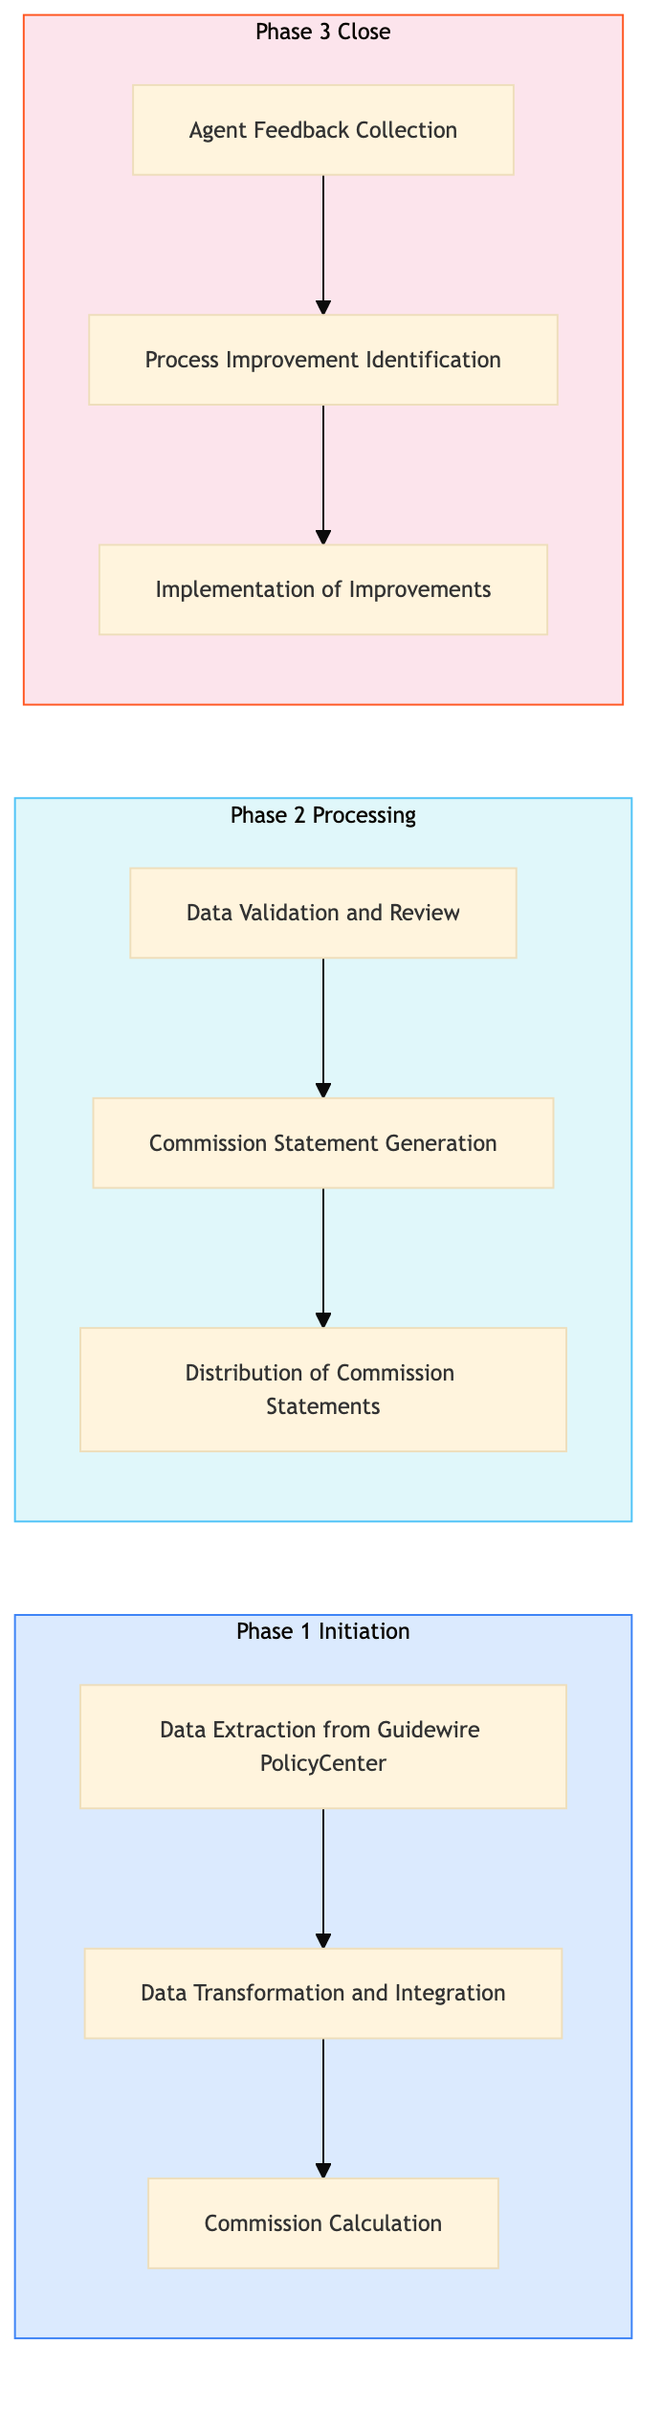
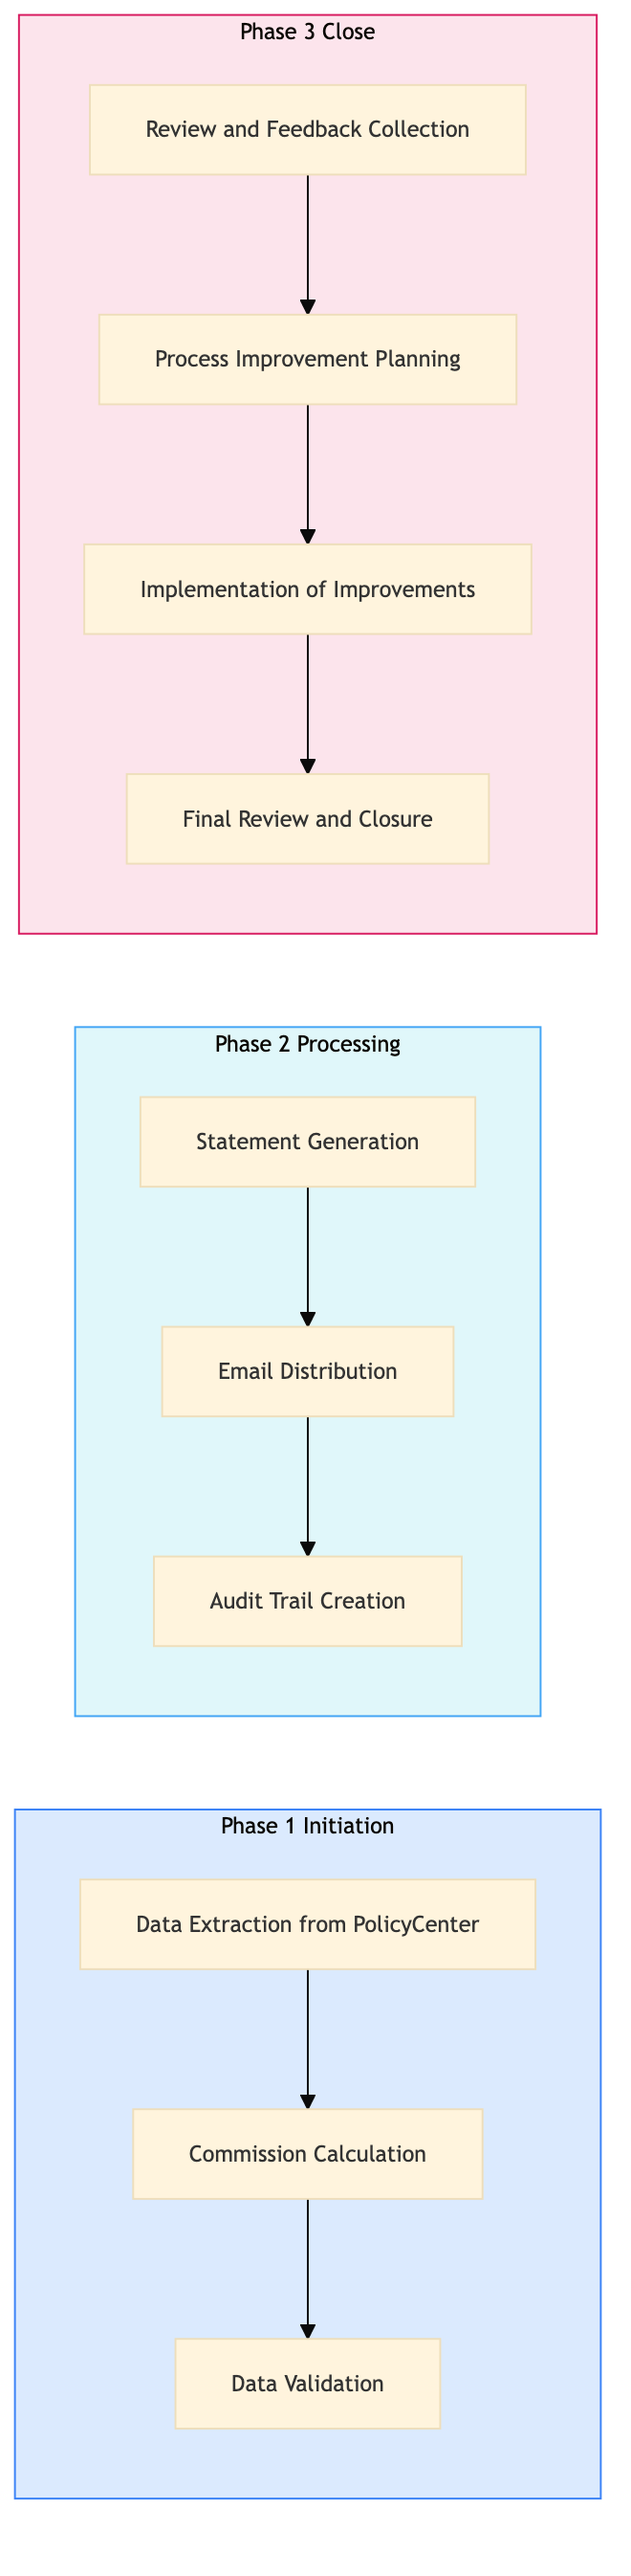
feat: add AAA-IN-BI-05 — Agent Commission Calculation and Statement

diff --git a/aaa-insurance/insurance-billing/aaa-in-bi-05.html b/aaa-insurance/insurance-billing/aaa-in-bi-05.html
@@ -23,40 +23,16 @@
     <div class="nav-l2-group">
       <a class="nav-l2-title" href="../../shared-membership/membership-enrolment/index.html">Membership Enrolment & Sales</a>
       <div class="nav-l3-list">
-        <a class="nav-l3" href="../../shared-membership/membership-enrolment/shared-mb-en-01.html">SHARED-MB-EN-01 &mdash; New Member Walk-In Enrolment (Branch)</a>
-        <a class="nav-l3" href="../../shared-membership/membership-enrolment/shared-mb-en-02.html">SHARED-MB-EN-02 &mdash; Online Membership Self-Enrolment (Web/Ap</a>
-        <a class="nav-l3" href="../../shared-membership/membership-enrolment/shared-mb-en-03.html">SHARED-MB-EN-03 &mdash; Phone Enrolment via Contact Centre</a>
-        <a class="nav-l3" href="../../shared-membership/membership-enrolment/shared-mb-en-04.html">SHARED-MB-EN-04 &mdash; Affiliate and Employer Group Enrolment</a>
-        <a class="nav-l3" href="../../shared-membership/membership-enrolment/shared-mb-en-05.html">SHARED-MB-EN-05 &mdash; Membership Tier Selection and Upsell</a>
-        <a class="nav-l3" href="../../shared-membership/membership-enrolment/shared-mb-en-06.html">SHARED-MB-EN-06 &mdash; Payment Processing and First-Year Billin</a>
-        <a class="nav-l3" href="../../shared-membership/membership-enrolment/shared-mb-en-07.html">SHARED-MB-EN-07 &mdash; Welcome Kit and Digital Card Issuance</a>
-        <a class="nav-l3" href="../../shared-membership/membership-enrolment/shared-mb-en-08.html">SHARED-MB-EN-08 &mdash; Duplicate Member Detection and Merge</a>
       </div>
     </div>
     <div class="nav-l2-group">
       <a class="nav-l2-title" href="../../shared-membership/membership-renewal/index.html">Membership Renewal & Retention</a>
       <div class="nav-l3-list">
-        <a class="nav-l3" href="../../shared-membership/membership-renewal/shared-mb-rn-01.html">SHARED-MB-RN-01 &mdash; Annual Renewal Notice Generation and Dis</a>
-        <a class="nav-l3" href="../../shared-membership/membership-renewal/shared-mb-rn-02.html">SHARED-MB-RN-02 &mdash; Auto-Renewal Processing (Credit Card on </a>
-        <a class="nav-l3" href="../../shared-membership/membership-renewal/shared-mb-rn-03.html">SHARED-MB-RN-03 &mdash; Lapsed Member Reinstatement Campaign</a>
-        <a class="nav-l3" href="../../shared-membership/membership-renewal/shared-mb-rn-04.html">SHARED-MB-RN-04 &mdash; Membership Upgrade and Tier Change Proce</a>
-        <a class="nav-l3" href="../../shared-membership/membership-renewal/shared-mb-rn-05.html">SHARED-MB-RN-05 &mdash; Associate and Household Member Add-On Pr</a>
-        <a class="nav-l3" href="../../shared-membership/membership-renewal/shared-mb-rn-06.html">SHARED-MB-RN-06 &mdash; Cancellation Request Handling and Save O</a>
-        <a class="nav-l3" href="../../shared-membership/membership-renewal/shared-mb-rn-07.html">SHARED-MB-RN-07 &mdash; Renewal Rate Review and Pricing Update</a>
-        <a class="nav-l3" href="../../shared-membership/membership-renewal/shared-mb-rn-08.html">SHARED-MB-RN-08 &mdash; Membership Winback Campaign (12-36 Month</a>
       </div>
     </div>
     <div class="nav-l2-group">
       <a class="nav-l2-title" href="../../shared-membership/member-services/index.html">Member Services & Benefits</a>
       <div class="nav-l3-list">
-        <a class="nav-l3" href="../../shared-membership/member-services/shared-mb-sv-01.html">SHARED-MB-SV-01 &mdash; Member Discount Partner Redemption</a>
-        <a class="nav-l3" href="../../shared-membership/member-services/shared-mb-sv-02.html">SHARED-MB-SV-02 &mdash; Passport Photo Service Delivery (Branch)</a>
-        <a class="nav-l3" href="../../shared-membership/member-services/shared-mb-sv-03.html">SHARED-MB-SV-03 &mdash; International Driving Permit (IDP) Proce</a>
-        <a class="nav-l3" href="../../shared-membership/member-services/shared-mb-sv-04.html">SHARED-MB-SV-04 &mdash; Notary and Document Authentication Servi</a>
-        <a class="nav-l3" href="../../shared-membership/member-services/shared-mb-sv-05.html">SHARED-MB-SV-05 &mdash; Member Portal Profile and Preferences Ma</a>
-        <a class="nav-l3" href="../../shared-membership/member-services/shared-mb-sv-06.html">SHARED-MB-SV-06 &mdash; Lost and Stolen Membership Card Replacem</a>
-        <a class="nav-l3" href="../../shared-membership/member-services/shared-mb-sv-07.html">SHARED-MB-SV-07 &mdash; Member Data Privacy Request (CCPA and PI</a>
-        <a class="nav-l3" href="../../shared-membership/member-services/shared-mb-sv-08.html">SHARED-MB-SV-08 &mdash; Member Satisfaction Survey and NPS Track</a>
       </div>
     </div>
   </div>
@@ -300,7 +276,7 @@
           <span class="pid-badge org-badge-aaa">AAA</span>
           AAA-IN-BI-05 &mdash; Agent Commission Calculation and Statement
         </h1>
-        <p>This process calculates and generates commission statements for licensed insurance agents based on their sales performance. It integrates data from various systems to ensure accurate and timely payments.</p>
+        <p>This process calculates and generates commission statements for licensed insurance agents based on their sales performance. It ensures accurate financial reporting and compliance with state DOI regulations.</p>
       </div>
 
       <!-- BPMN Diagram -->
@@ -327,9 +303,9 @@
             <tr><th>L2 Process</th><td>Billing & Premium Management</td></tr>
             <tr><th>L3 Name</th><td>Agent Commission Calculation and Statement</td></tr>
             <tr><th>Trigger</th><td>Monthly end of the billing cycle</td></tr>
-            <tr><th>Outcome</th><td>Successful completion produces accurate agent commission statements, which are distributed via email or direct mail.</td></tr>
-            <tr><th>Org Notes</th><td>AAA Northeast uses Guidewire Cloud for policy management and Salesforce for customer interactions. The process is more integrated with these systems compared to CAA, leveraging cloud-based solutions for real-time data processing.</td></tr>
-            <tr><th>Systems</th><td><span class="sys-tag guidewire">Guidewire PolicyCenter</span> <span class="sys-tag sap">SAP S/4HANA</span> <span class="sys-tag salesforce">Salesforce</span> <span class="sys-tag sabre">Sabre GDS</span> <span class="sys-tag verisk">Verisk ISO rating</span></td></tr>
+            <tr><th>Outcome</th><td>Successful completion produces accurate agent commission statements, which are distributed to all licensed agents via email.</td></tr>
+            <tr><th>Org Notes</th><td>The process for AAA Northeast is tailored to meet specific state DOI requirements and uses the Guidewire Cloud platform for policy management. Unlike CAA, AAA does not have a telematics component in this process.</td></tr>
+            <tr><th>Systems</th><td><span class="sys-tag guidewire">Guidewire PolicyCenter</span> <span class="sys-tag sap">SAP S/4HANA</span> <span class="sys-tag salesforce">Salesforce</span></td></tr>
           </table>
         </div>
       </div>
@@ -350,109 +326,121 @@
               <tbody>
         <tr>
           <td class="step-num">1.1</td>
-          <td>Data Extraction from Guidewire PolicyCenter</td>
+          <td>Data Extraction from PolicyCenter</td>
           <td>SAP Data Analyst</td>
           <td><span class="sys-tag guidewire">Guidewire PolicyCenter</span></td>
-          <td>Policy data, premium amounts</td>
+          <td>Policy data for the month</td>
           <td>Extracted policy data file</td>
-          <td>Data extraction time < 1 hour</td>
-          <td>Inconsistent data formats from PolicyCenter</td>
+          <td>Data extraction time < 2 hours</td>
+          <td>Inaccurate data extraction can lead to incorrect commission calculations.</td>
           <td>N</td>
           <td><span class="exception-y">Y</span></td>
         </tr>
         <tr>
           <td class="step-num">1.2</td>
-          <td>Data Transformation and Integration</td>
-          <td>ETL Developer</td>
+          <td>Commission Calculation</td>
+          <td>Agent Commission Specialist</td>
           <td><span class="sys-tag sap">SAP S/4HANA</span></td>
           <td>Extracted policy data file</td>
-          <td>Transformed and integrated data in SAP S/4HANA</td>
-          <td>Data integration time < 2 hours</td>
-          <td>ETL process failures due to system downtime</td>
+          <td>Commission calculation report</td>
+          <td>Commission calculations completed within 1 business day</td>
+          <td>Errors in commission formulas can result in financial discrepancies.</td>
           <td>N</td>
           <td><span class="exception-y">Y</span></td>
         </tr>
         <tr>
           <td class="step-num">1.3</td>
-          <td>Commission Calculation</td>
-          <td>Commissions Specialist</td>
-          <td><span class="sys-tag sap">SAP S/4HANA</span></td>
-          <td>Transformed and integrated data in SAP S/4HANA</td>
-          <td>Commission calculation report</td>
-          <td>Commission calculations completed within 1 business day</td>
-          <td>Errors in commission rate application</td>
-          <td>N</td>
-          <td><span class="exception-y">Y</span></td>
-        </tr>
-        <tr>
-          <td class="step-num">2.1</td>
-          <td>Data Validation and Review</td>
-          <td>Commissions Manager</td>
+          <td>Data Validation</td>
+          <td>Agent Commission Specialist</td>
           <td><span class="sys-tag sap">SAP S/4HANA</span></td>
           <td>Commission calculation report</td>
           <td>Validated commission data</td>
-          <td>Validation time < 2 business days</td>
-          <td>Manual review errors</td>
+          <td>Validation completed within 1 business day</td>
+          <td>Manual validation is time-consuming and prone to errors.</td>
           <td><span class="decision-y">Y</span></td>
           <td>N</td>
         </tr>
         <tr>
-          <td class="step-num">2.2</td>
-          <td>Commission Statement Generation</td>
-          <td>Commissions Specialist</td>
-          <td><span class="sys-tag salesforce">Salesforce</span></td>
+          <td class="step-num">2.1</td>
+          <td>Statement Generation</td>
+          <td>Agent Commission Specialist</td>
+          <td><span class="sys-tag sap">SAP S/4HANA</span></td>
           <td>Validated commission data</td>
-          <td>Agent commission statements</td>
-          <td>Statement generation time < 1 business day</td>
-          <td>Delays in statement distribution</td>
+          <td>Commission statement PDFs</td>
+          <td>Statements generated within 1 business day</td>
+          <td>Formatting issues can cause confusion for agents.</td>
+          <td>N</td>
+          <td><span class="exception-y">Y</span></td>
+        </tr>
+        <tr>
+          <td class="step-num">2.2</td>
+          <td>Email Distribution</td>
+          <td>Agent Communication Specialist</td>
+          <td><span class="sys-tag salesforce">Salesforce</span></td>
+          <td>Commission statement PDFs</td>
+          <td>Sent emails to licensed agents</td>
+          <td>95% of statements distributed within 1 business day</td>
+          <td>Email delivery failures can result in missed communications.</td>
           <td>N</td>
           <td><span class="exception-y">Y</span></td>
         </tr>
         <tr>
           <td class="step-num">2.3</td>
-          <td>Distribution of Commission Statements</td>
-          <td>Commissions Coordinator</td>
-          <td><span class="sys-tag salesforce">Salesforce</span></td>
-          <td>Agent commission statements</td>
-          <td>Emails sent to agents, physical copies distributed if required</td>
-          <td>Statements distributed within 1 business day after generation</td>
-          <td>Non-delivery of emails</td>
+          <td>Audit Trail Creation</td>
+          <td>Internal Auditor</td>
+          <td><span class="sys-tag sap">SAP S/4HANA</span></td>
+          <td>Commission statement PDFs and distribution logs</td>
+          <td>Audit trail report</td>
+          <td>Audit trails completed within 1 business day</td>
+          <td>Incomplete audit trails can lead to compliance issues.</td>
           <td>N</td>
           <td><span class="exception-y">Y</span></td>
         </tr>
         <tr>
           <td class="step-num">3.1</td>
-          <td>Agent Feedback Collection</td>
-          <td>Commissions Coordinator</td>
+          <td>Review and Feedback Collection</td>
+          <td>Agent Commission Specialist</td>
           <td><span class="sys-tag salesforce">Salesforce</span></td>
-          <td>Emails sent to agents, physical copies distributed if required</td>
-          <td>Feedback from agents</td>
-          <td>Response rate > 80%</td>
-          <td>Low response rates</td>
-          <td><span class="decision-y">Y</span></td>
+          <td>Agent feedback via email</td>
+          <td>Feedback summary report</td>
+          <td>80% response rate from agents within 2 weeks</td>
+          <td>Low agent participation can hinder process improvements.</td>
           <td>N</td>
+          <td><span class="exception-y">Y</span></td>
         </tr>
         <tr>
           <td class="step-num">3.2</td>
-          <td>Process Improvement Identification</td>
-          <td>Commissions Manager</td>
-          <td><span class="sys-tag salesforce">Salesforce</span></td>
-          <td>Feedback from agents</td>
-          <td>Improvement recommendations</td>
-          <td>Number of identified improvements > 5 per quarter</td>
-          <td>Lack of actionable feedback</td>
+          <td>Process Improvement Planning</td>
+          <td>Agent Commission Specialist</td>
+          <td><span class="sys-tag sap">SAP S/4HANA</span></td>
+          <td>Feedback summary report</td>
+          <td>Improvement plan document</td>
+          <td>Improvement plan completed within 1 week</td>
+          <td>Inadequate planning can delay process enhancements.</td>
           <td>N</td>
           <td><span class="exception-y">Y</span></td>
         </tr>
         <tr>
           <td class="step-num">3.3</td>
           <td>Implementation of Improvements</td>
-          <td>IT Specialist</td>
-          <td><span class="sys-tag salesforce">SAP S/4HANA, Salesforce</span></td>
-          <td>Improvement recommendations</td>
-          <td>Updated processes and systems</td>
-          <td>Time to implement improvements < 2 weeks</td>
-          <td>Resistance to change</td>
+          <td>SAP Data Analyst</td>
+          <td><span class="sys-tag sap">SAP S/4HANA</span></td>
+          <td>Improvement plan document</td>
+          <td>Updated commission calculation process</td>
+          <td>Implementations completed within 1 month</td>
+          <td>Resistance to change can slow down improvements.</td>
+          <td>N</td>
+          <td><span class="exception-y">Y</span></td>
+        </tr>
+        <tr>
+          <td class="step-num">3.4</td>
+          <td>Final Review and Closure</td>
+          <td>Agent Commission Specialist</td>
+          <td><span class="sys-tag sap">SAP S/4HANA</span></td>
+          <td>Updated commission calculation process</td>
+          <td>Process closure document</td>
+          <td>Closure completed within 1 business day</td>
+          <td>Ongoing issues can prolong the closure process.</td>
           <td>N</td>
           <td><span class="exception-y">Y</span></td>
         </tr>
@@ -467,9 +455,9 @@
         <div class="card-header">&#x1F4CA; KPIs &amp; Risk Register</div>
         <div class="card-body">
           <p class="mb-8"><strong>KPIs</strong></p>
-          <div class="kpi-list mb-8"><span class="kpi-pill">Data extraction time < 1 hour</span> <span class="kpi-pill">Data integration time < 2 hours</span> <span class="kpi-pill">Commission calculations completed within 1 business day</span> <span class="kpi-pill">Validation time < 2 business days</span> <span class="kpi-pill">Statement generation time < 1 business day</span> <span class="kpi-pill">Statements distributed within 1 business day after generation</span> <span class="kpi-pill">Response rate > 80%</span> <span class="kpi-pill">Number of identified improvements > 5 per quarter</span> <span class="kpi-pill">Time to implement improvements < 2 weeks</span></div>
+          <div class="kpi-list mb-8"><span class="kpi-pill">Data extraction time < 2 hours</span> <span class="kpi-pill">Commission calculations completed within 1 business day</span> <span class="kpi-pill">Validation completed within 1 business day</span> <span class="kpi-pill">Statements generated within 1 business day</span> <span class="kpi-pill">95% of statements distributed within 1 business day</span></div>
           <p class="mb-8" style="margin-top:16px"><strong>Key Risks</strong></p>
-          <div class="kpi-list"><span class="risk-pill">Inconsistent data formats from PolicyCenter</span> <span class="risk-pill">ETL process failures due to system downtime</span> <span class="risk-pill">Errors in commission rate application</span> <span class="risk-pill">Manual review errors</span> <span class="risk-pill">Delays in statement distribution</span> <span class="risk-pill">Non-delivery of emails</span> <span class="risk-pill">Low response rates</span> <span class="risk-pill">Lack of actionable feedback</span> <span class="risk-pill">Resistance to change</span></div>
+          <div class="kpi-list"><span class="risk-pill">Inaccurate data extraction leading to incorrect commission calculations</span> <span class="risk-pill">Errors in commission formulas resulting in financial discrepancies</span> <span class="risk-pill">Manual validation being time-consuming and prone to errors</span> <span class="risk-pill">Formatting issues causing confusion for agents</span> <span class="risk-pill">Email delivery failures resulting in missed communications</span></div>
         </div>
       </div>
 

diff --git a/aaa-insurance/insurance-billing/index.html b/aaa-insurance/insurance-billing/index.html
@@ -72,6 +72,7 @@
         <a class="nav-l3" href="../../aaa-insurance/insurance-billing/aaa-in-bi-01.html">AAA-IN-BI-01 &mdash; Premium Invoice Generation and Distribut</a>
         <a class="nav-l3" href="../../aaa-insurance/insurance-billing/aaa-in-bi-02.html">AAA-IN-BI-02 &mdash; Installment Plan Setup and Management</a>
         <a class="nav-l3" href="../../aaa-insurance/insurance-billing/aaa-in-bi-03.html">AAA-IN-BI-03 &mdash; Payment Receipt and EFT and Credit Card </a>
+        <a class="nav-l3" href="../../aaa-insurance/insurance-billing/aaa-in-bi-04.html">AAA-IN-BI-04 &mdash; NSF and Failed Payment Handling and Noti</a>
       </div>
     </div>
     <div class="nav-l2-group">
@@ -268,7 +269,7 @@
           <a href="../index.html">AAA Insurance</a>
         </div>
         <h1>🛡 Billing & Premium Management</h1>
-        <p>3 of 8 processes complete</p>
+        <p>4 of 8 processes complete</p>
       </div>
       <div class="card">
         <div class="card-header">Process List</div>
@@ -278,7 +279,7 @@
             <tbody><tr><td><a href="aaa-in-bi-01.html">AAA-IN-BI-01</a></td><td>Premium Invoice Generation and Distribution</td><td><span style="color:#16a34a;font-weight:700">&#x2705; Complete</span></td></tr>
 <tr><td><a href="aaa-in-bi-02.html">AAA-IN-BI-02</a></td><td>Installment Plan Setup and Management</td><td><span style="color:#16a34a;font-weight:700">&#x2705; Complete</span></td></tr>
 <tr><td><a href="aaa-in-bi-03.html">AAA-IN-BI-03</a></td><td>Payment Receipt and EFT and Credit Card Processing</td><td><span style="color:#16a34a;font-weight:700">&#x2705; Complete</span></td></tr>
-<tr><td>AAA-IN-BI-04</td><td>NSF and Failed Payment Handling and Notice</td><td><span style="color:#94a3b8">&#x23F3; Queued</span></td></tr>
+<tr><td><a href="aaa-in-bi-04.html">AAA-IN-BI-04</a></td><td>NSF and Failed Payment Handling and Notice</td><td><span style="color:#16a34a;font-weight:700">&#x2705; Complete</span></td></tr>
 <tr><td>AAA-IN-BI-05</td><td>Agent Commission Calculation and Statement</td><td><span style="color:#94a3b8">&#x23F3; Queued</span></td></tr>
 <tr><td>AAA-IN-BI-06</td><td>Refund Processing (Cancellation and Overpayment)</td><td><span style="color:#94a3b8">&#x23F3; Queued</span></td></tr>
 <tr><td>AAA-IN-BI-07</td><td>Premium Audit (Commercial Lines)</td><td><span style="color:#94a3b8">&#x23F3; Queued</span></td></tr>

diff --git a/index.html b/index.html
@@ -72,6 +72,7 @@
         <a class="nav-l3" href="aaa-insurance/insurance-billing/aaa-in-bi-01.html">AAA-IN-BI-01 &mdash; Premium Invoice Generation and Distribut</a>
         <a class="nav-l3" href="aaa-insurance/insurance-billing/aaa-in-bi-02.html">AAA-IN-BI-02 &mdash; Installment Plan Setup and Management</a>
         <a class="nav-l3" href="aaa-insurance/insurance-billing/aaa-in-bi-03.html">AAA-IN-BI-03 &mdash; Payment Receipt and EFT and Credit Card </a>
+        <a class="nav-l3" href="aaa-insurance/insurance-billing/aaa-in-bi-04.html">AAA-IN-BI-04 &mdash; NSF and Failed Payment Handling and Noti</a>
       </div>
     </div>
     <div class="nav-l2-group">
@@ -268,9 +269,9 @@
       </div>
 
       <div class="stats-bar">
-        <div class="stat-card"><div class="stat-num">21</div><div class="stat-label">Processes Complete</div></div>
+        <div class="stat-card"><div class="stat-num">22</div><div class="stat-label">Processes Complete</div></div>
         <div class="stat-card"><div class="stat-num">268</div><div class="stat-label">Total Processes</div></div>
-        <div class="stat-card"><div class="stat-num">21</div><div class="stat-label">AAA Complete</div></div>
+        <div class="stat-card"><div class="stat-num">22</div><div class="stat-label">AAA Complete</div></div>
         <div class="stat-card"><div class="stat-num caa-red">0</div><div class="stat-label">CAA Complete</div></div>
         <div class="stat-card"><div class="stat-num">0</div><div class="stat-label">Shared Complete</div></div>
       </div>
@@ -290,7 +291,7 @@
         <span class="nav-org-dot aaa" style="display:inline-block;margin-right:4px"></span>
         AAA
       </p>
-      <p class="card-count">21 / 34 processes complete</p>
+      <p class="card-count">22 / 34 processes complete</p>
     </div>
     <div class="domain-card org-caa">
       <h3><a href="caa-insurance/index.html">🍁 CAA Insurance (Ontario)</a></h3>

diff --git a/aaa-insurance/index.html b/aaa-insurance/index.html
@@ -72,6 +72,7 @@
         <a class="nav-l3" href="../aaa-insurance/insurance-billing/aaa-in-bi-01.html">AAA-IN-BI-01 &mdash; Premium Invoice Generation and Distribut</a>
         <a class="nav-l3" href="../aaa-insurance/insurance-billing/aaa-in-bi-02.html">AAA-IN-BI-02 &mdash; Installment Plan Setup and Management</a>
         <a class="nav-l3" href="../aaa-insurance/insurance-billing/aaa-in-bi-03.html">AAA-IN-BI-03 &mdash; Payment Receipt and EFT and Credit Card </a>
+        <a class="nav-l3" href="../aaa-insurance/insurance-billing/aaa-in-bi-04.html">AAA-IN-BI-04 &mdash; NSF and Failed Payment Handling and Noti</a>
       </div>
     </div>
     <div class="nav-l2-group">
@@ -265,7 +266,7 @@
       <div class="page-header">
         <div class="breadcrumb"><a href="../index.html">Home</a></div>
         <h1>🛡 AAA Insurance</h1>
-        <p>21 of 34 processes complete across 4 process groups</p>
+        <p>22 of 34 processes complete across 4 process groups</p>
       </div>
       <div class="domain-grid">    <div class="domain-card org-aaa">
       <h3><a href="insurance-quoting/index.html">Quoting & Underwriting</a></h3>
@@ -277,7 +278,7 @@
     </div>
     <div class="domain-card org-aaa">
       <h3><a href="insurance-billing/index.html">Billing & Premium Management</a></h3>
-      <p class="card-meta">3/8 processes complete</p>
+      <p class="card-meta">4/8 processes complete</p>
     </div>
     <div class="domain-card org-aaa">
       <h3><a href="agency-operations/index.html">Insurance Agency Operations</a></h3>
